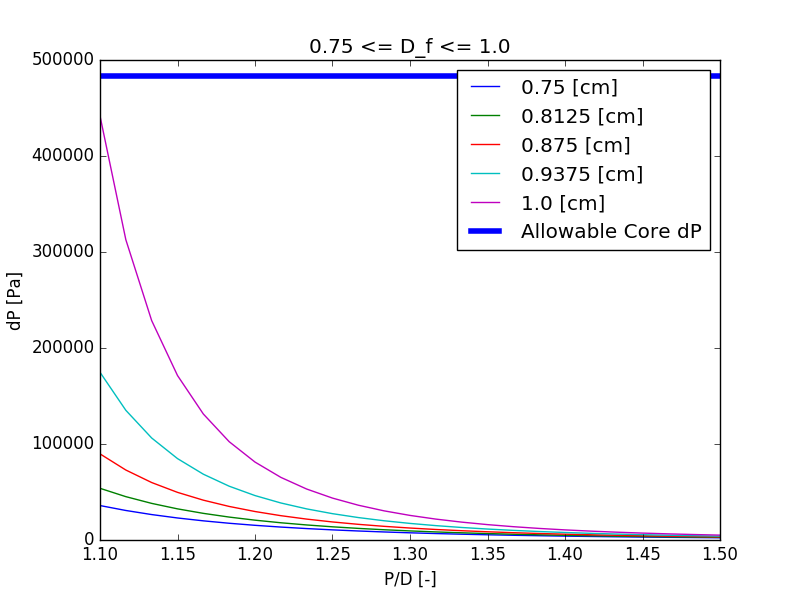
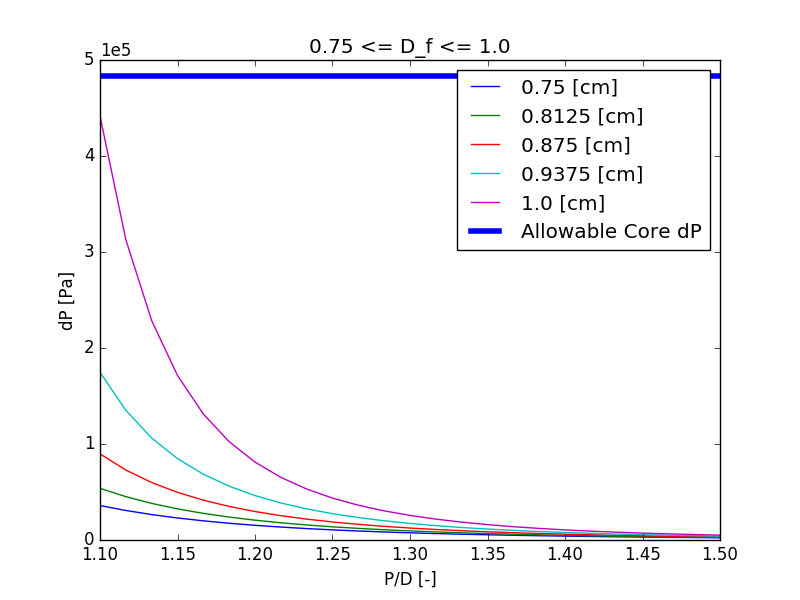
improved plots

diff --git a/analysis_tools/thermal_analysis/pressure_drop_analysis.py b/analysis_tools/thermal_analysis/pressure_drop_analysis.py
@@ -13,17 +13,18 @@ def sweep_PD(range, D):
     return dp_data, PDs
 
 def run_analysis(): 
-    Ds = np.linspace(0.0075, 0.015, 5)
+    Ds = np.linspace(0.0075, 0.011, 5)
     for D in Ds:
         dp_data, PDs = sweep_PD((1.1, 1.5, 25), D)
         label = str(D * 100) + ' [cm]'
         plt.plot(PDs, dp_data, label=label)
     plt.axhline(483500, linewidth=4, label='Allowable Core dP')
-    plt.title('0.75 <= D_f <= 1.5')
+    plt.title('0.75 <= D_f <= 1.1')
+    plt.ticklabel_format(style='sci', axis='y', scilimits=(0,0))
     plt.xlabel('P/D [-]')
     plt.ylabel('dP [Pa]')
     plt.legend()
-    plt.savefig('0.75_1.5.png')
+    plt.savefig('0.75_1.1.png')
     plt.show()
 
 if __name__ == '__main__':
